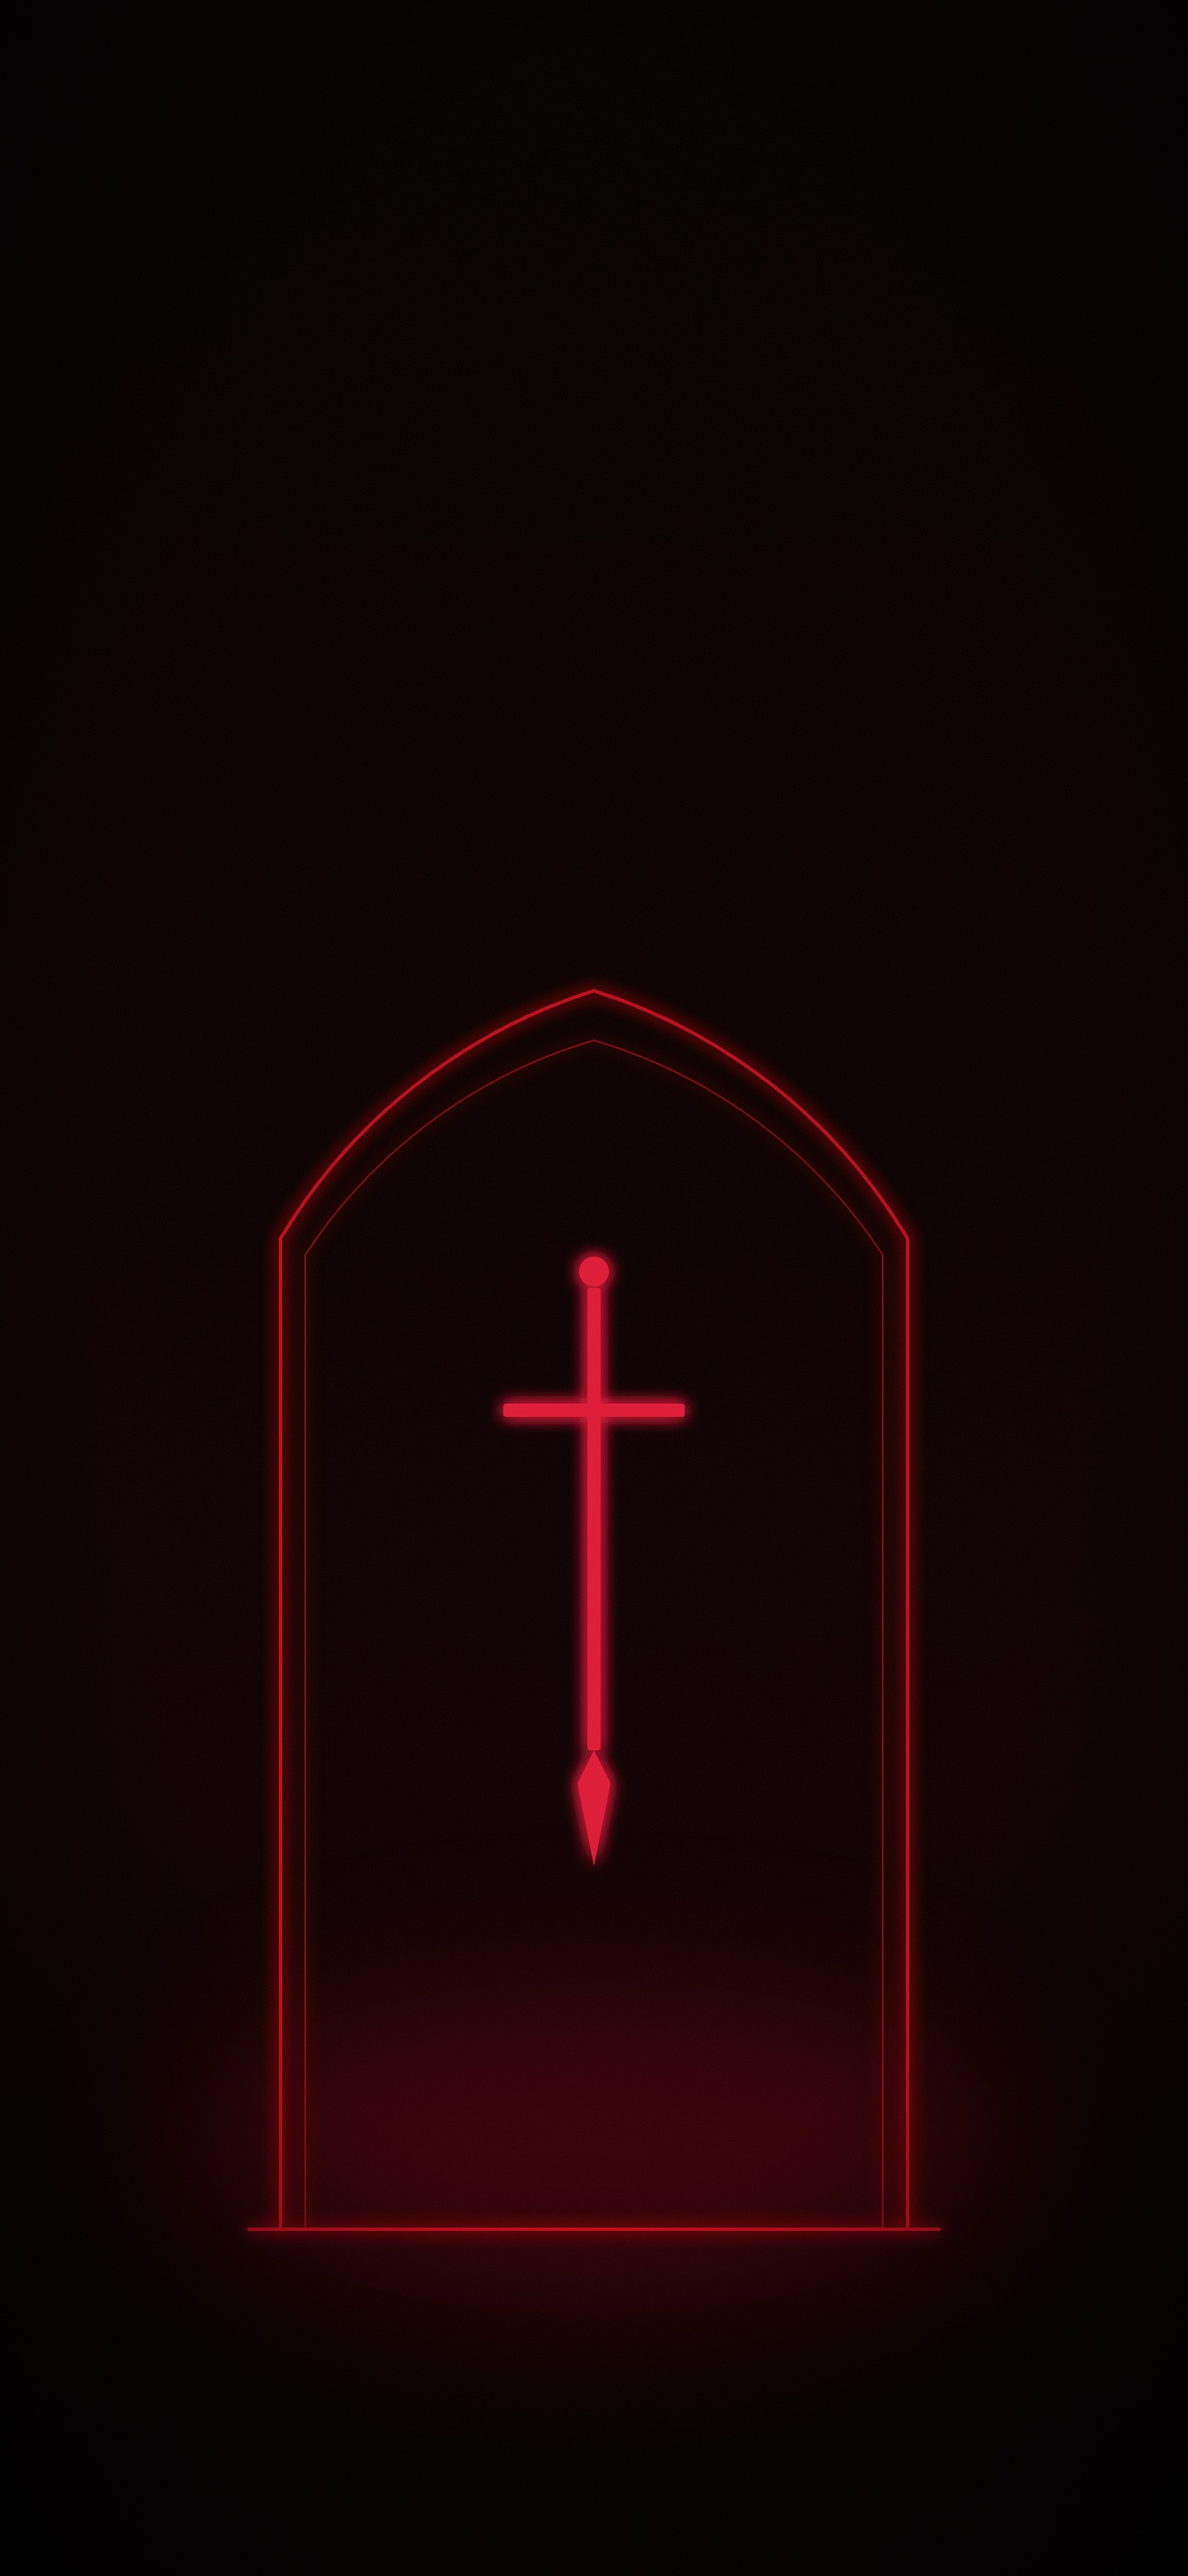
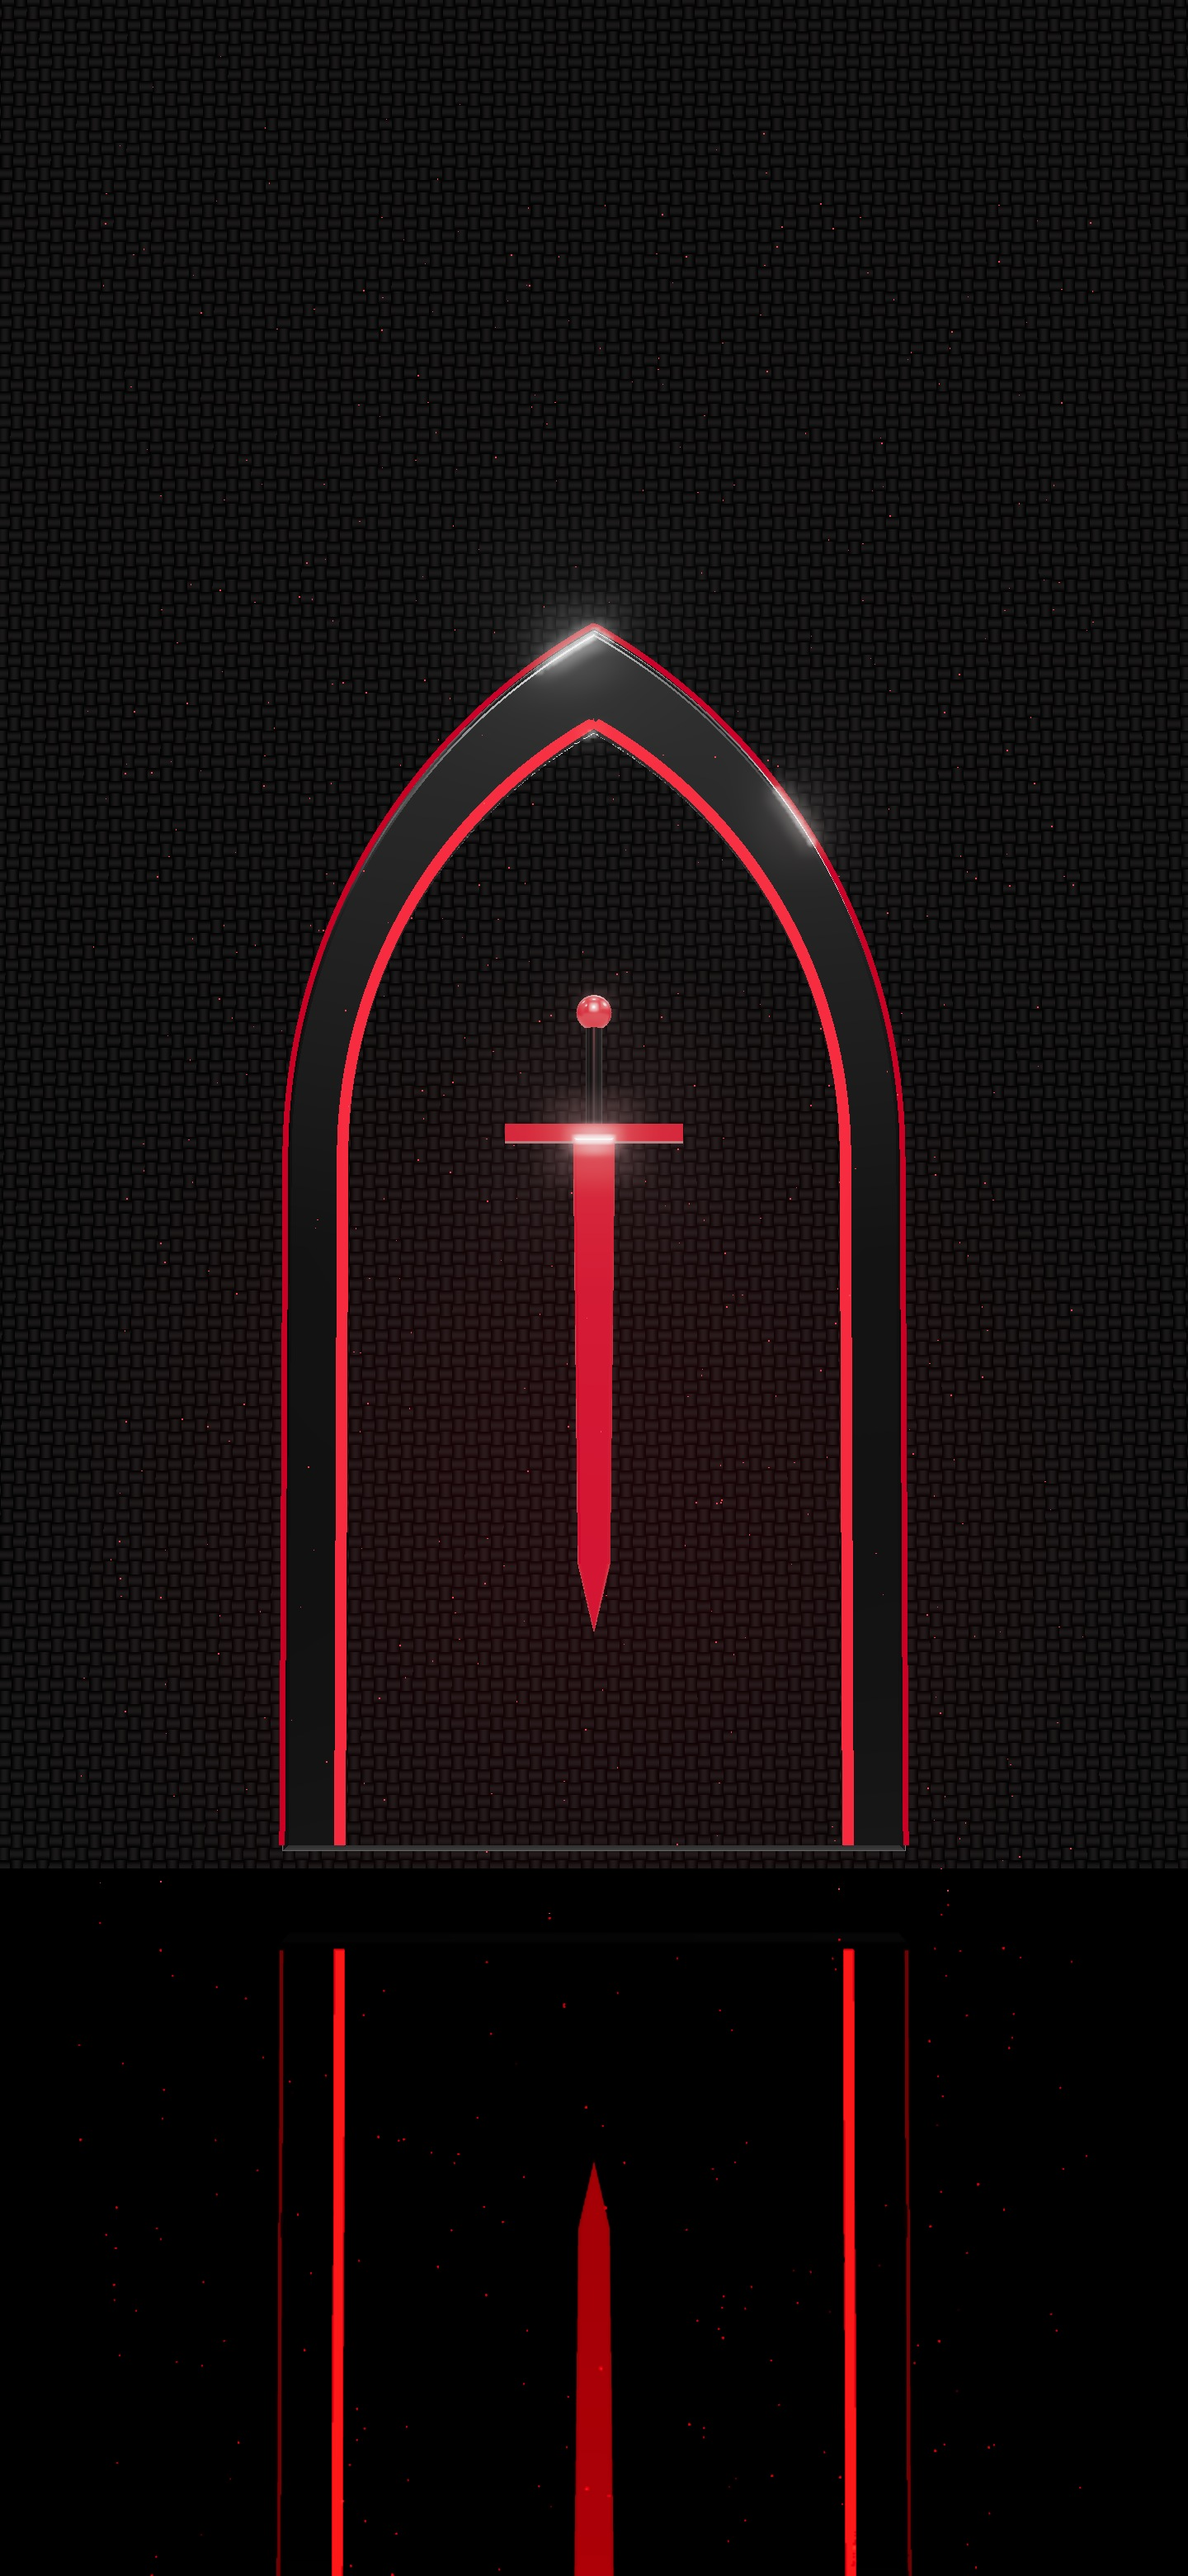
Gothic Crimson: re-render the Crimson Void wallpaper in 3D
A glossy black extruded gothic arch with crimson neon tubes tracing its
edges, a sword in emissive dark metal, a black mirror floor, drifting
embers and a carbon-fibre wall. render.js now writes each scene to its own
path and can render a single scene by name.

Claude-Session: https://claude.ai/code/session_012hMGB7J7nwum8GDAFji8hW

Changed region(s): [[0.1562, 0.2176, 0.8438, 1.0]]

diff --git a/theme/gothic-crimson/src/3d/void.html b/theme/gothic-crimson/src/3d/void.html
@@ -1,0 +1,135 @@
+<!doctype html>
+<html>
+<head>
+<meta charset="utf-8">
+<!-- Crimson Void wallpaper: a glossy black gothic arch outlined in crimson neon, a glowing sword inside,
+     standing on a black mirror floor in front of carbon fibre. 1440x3120. -->
+<script type="importmap">
+{ "imports": { "three": "./node_modules/three/build/three.module.js", "three/addons/": "./node_modules/three/examples/jsm/" } }
+</script>
+<style>html, body { margin: 0; background: #000; overflow: hidden; }</style>
+</head>
+<body>
+<script type="module">
+import * as THREE from 'three';
+import { Reflector } from 'three/addons/objects/Reflector.js';
+import { setup, gloss, glow, finish, CRIMSON } from './common.js';
+
+const width = 1440, height = 3120;
+const { renderer, scene } = setup({ width, height, exposure: 0.85 });
+
+const camera = new THREE.PerspectiveCamera(34, width / height, 0.1, 200);
+camera.position.set(0, 3.4, 52);
+camera.lookAt(0, 6.8, 0);
+
+// The pointed-arch opening, as a 2D path: straight sides up to the spring line, then two arcs.
+function lancetPath(w, spring) {
+  const r = w;
+  const apex = spring + Math.sqrt(r * r - (w / 2) ** 2);
+  const path = new THREE.Path();
+  path.moveTo(-w / 2, 0);
+  path.lineTo(-w / 2, spring);
+  path.absarc(w / 2, spring, r, Math.PI, Math.atan2(apex - spring, -w / 2), true);
+  path.absarc(-w / 2, spring, r, Math.atan2(apex - spring, w / 2), 0, true);
+  path.lineTo(w / 2, 0);
+  return path;
+}
+
+// Arch: a thick glossy frame around the opening.
+// Points are de-duplicated: where the arcs meet, the path repeats a point, which upsets triangulation.
+function points(path2d) {
+  return path2d.getPoints(120).filter((p, i, all) => i === 0 || p.distanceTo(all[i - 1]) > 1e-4);
+}
+const outer = new THREE.Shape(points(lancetPath(7.4, 8.4)));
+const hole = new THREE.Path(points(lancetPath(6.0, 8.4)));
+outer.holes.push(hole);
+const arch = new THREE.Mesh(
+  new THREE.ExtrudeGeometry(outer, { depth: 1.2, bevelEnabled: true, bevelSize: 0.08, bevelThickness: 0.08, bevelSegments: 5 }),
+  gloss(),
+);
+arch.position.z = -0.6;
+scene.add(arch);
+
+// Neon tracing the inside edge of the opening, and a fainter line round the outside.
+function neon(path2d, z, radius, strength) {
+  const pts = path2d.getPoints(200).map((p) => new THREE.Vector3(p.x, p.y, z));
+  const curve = new THREE.CatmullRomCurve3(pts);
+  scene.add(new THREE.Mesh(new THREE.TubeGeometry(curve, 800, radius, 12), glow(CRIMSON, strength)));
+}
+neon(lancetPath(6.15, 8.4), 0.72, 0.07, 1.5);
+neon(lancetPath(7.55, 8.4), 0.72, 0.035, 0.8);
+
+// The sword: crossguard, grip, pommel and a tapering blade, glowing from within.
+const sword = new THREE.Group();
+const blade = new THREE.Shape();
+blade.moveTo(-0.22, 0); blade.lineTo(0.22, 0); blade.lineTo(0.16, -5.2); blade.lineTo(0, -6.0); blade.lineTo(-0.16, -5.2); blade.closePath();
+const extrude = { depth: 0.12, bevelEnabled: true, bevelSize: 0.04, bevelThickness: 0.04, bevelSegments: 3 };
+// Glossy dark metal lit from within, so it keeps its shape instead of glowing flat.
+const swordGlow = new THREE.MeshPhysicalMaterial({
+  color: 0x1a0306, metalness: 0.6, roughness: 0.25, clearcoat: 1, envMapIntensity: 0.6,
+  emissive: CRIMSON, emissiveIntensity: 0.9,
+});
+sword.add(new THREE.Mesh(new THREE.ExtrudeGeometry(blade, extrude), swordGlow));
+const guard = new THREE.Mesh(new THREE.BoxGeometry(2.2, 0.22, 0.22), swordGlow);
+guard.position.y = 0.1;
+sword.add(guard);
+const grip = new THREE.Mesh(new THREE.CylinderGeometry(0.1, 0.1, 1.3, 16), gloss());
+grip.position.y = 0.85;
+sword.add(grip);
+const pommel = new THREE.Mesh(new THREE.SphereGeometry(0.22, 24, 16), swordGlow);
+pommel.position.y = 1.6;
+sword.add(pommel);
+sword.position.set(0, 8.6, 0.2);
+scene.add(sword);
+const swordLight = new THREE.PointLight(CRIMSON, 6, 12, 2);
+swordLight.position.set(0, 10.5, 4);
+scene.add(swordLight);
+
+// Black mirror floor.
+const floor = new Reflector(new THREE.PlaneGeometry(80, 80), { textureWidth: width / 2, textureHeight: height / 2, color: 0x2a2a2a });
+floor.rotation.x = -Math.PI / 2;
+floor.position.y = -0.62;
+scene.add(floor);
+
+// Carbon-fibre wall behind, with a crimson glow from the arch.
+const wall = new THREE.Mesh(
+  new THREE.PlaneGeometry(120, 120),
+  new THREE.ShaderMaterial({
+    uniforms: { glow: { value: new THREE.Color(0x2c040b) } },
+    vertexShader: 'varying vec2 vUv; void main() { vUv = uv; gl_Position = projectionMatrix * modelViewMatrix * vec4(position, 1.0); }',
+    fragmentShader: `
+      uniform vec3 glow; varying vec2 vUv;
+      void main() {
+        vec2 g = vUv * 700.0;
+        vec2 cell = floor(g);
+        vec2 f = fract(g);
+        float across = mod(cell.x + cell.y, 2.0) > 0.5 ? f.x : f.y;
+        float ridge = pow(sin(across * 3.14159), 1.5);
+        vec3 col = vec3(mix(0.006, 0.03, ridge)) * vec3(1.0, 0.93, 0.95);
+        col += glow * smoothstep(0.07, 0.0, distance(vUv, vec2(0.5, 0.535)));
+        gl_FragColor = vec4(col, 1.0);
+      }`,
+  }),
+);
+wall.position.set(0, 0, -4);
+scene.add(wall);
+
+// Embers drifting up through the arch.
+const count = 500;
+const pos = new Float32Array(count * 3);
+let seed = 5;
+const rand = () => ((seed = (seed * 16807) % 2147483647) / 2147483647);
+for (let i = 0; i < count; i++) {
+  pos[i * 3] = (rand() - 0.5) * 12;
+  pos[i * 3 + 1] = rand() * 22 - 1;
+  pos[i * 3 + 2] = (rand() - 0.5) * 6 + 1;
+}
+scene.add(new THREE.Points(
+  new THREE.BufferGeometry().setAttribute('position', new THREE.BufferAttribute(pos, 3)),
+  new THREE.PointsMaterial({ color: new THREE.Color(0xff3a4a).multiplyScalar(1.5), size: 0.05, transparent: true, opacity: 0.7 }),
+));
+
+finish({ renderer, scene, camera, width, height, bloom: { strength: 1.0, radius: 0.6, threshold: 0.85 } });
+</script>
+</body>
+</html>

diff --git a/theme/gothic-crimson/src/3d/render.js b/theme/gothic-crimson/src/3d/render.js
@@ -1,13 +1,15 @@
-// Renders the 3D scenes to ../../theme-park/*.jpg with headless Chromium (WebGL via SwiftShader).
-// Run from this folder: npm install && node render.js
+// Renders the 3D scenes to JPEGs in the gothic-crimson folder with headless Chromium (WebGL via SwiftShader).
+// Run from this folder: npm install && node render.js [part-of-file-name]
 const http = require('http');
 const fs = require('fs');
 const path = require('path');
 const { chromium } = require('playwright');
 
+// Output file (relative to the gothic-crimson folder) -> scene page and size.
 const SCENES = {
-  'quick-panel': { page: 'bands.html?scene=panel', width: 1440, height: 3120 },
-  keyboard: { page: 'bands.html?scene=keys', width: 1440, height: 1080 },
+  'theme-park/quick-panel.jpg': { page: 'bands.html?scene=panel', width: 1440, height: 3120 },
+  'theme-park/keyboard.jpg': { page: 'bands.html?scene=keys', width: 1440, height: 1080 },
+  'wallpapers/gothic-crimson-void.jpg': { page: 'void.html', width: 1440, height: 3120 },
 };
 const TYPES = { '.html': 'text/html', '.js': 'text/javascript' };
 
@@ -24,20 +26,21 @@ const server = http.createServer((req, res) => {
 
 server.listen(0, async () => {
   const base = `http://127.0.0.1:${server.address().port}`;
-  const outDir = path.join(__dirname, '..', '..', 'theme-park');
-  fs.mkdirSync(outDir, { recursive: true });
+  const root = path.join(__dirname, '..', '..');
   const browser = await chromium.launch({ args: ['--use-angle=swiftshader', '--enable-unsafe-swiftshader', '--ignore-gpu-blocklist'] });
   try {
+    const only = process.argv[2];
     for (const [name, { page, width, height }] of Object.entries(SCENES)) {
+      if (only && !name.includes(only)) continue;
       const tab = await browser.newPage({ viewport: { width, height } });
       tab.on('pageerror', (e) => console.error(`${page}: ${e.message}`));
       tab.on('console', (m) => m.type() === 'error' && console.error(`${page}: ${m.text()}`));
       await tab.goto(`${base}/${page}`);
       await tab.waitForFunction(() => window.__done === true, null, { timeout: 600000 });
       const canvas = await tab.$('canvas');
-      await canvas.screenshot({ path: path.join(outDir, `${name}.jpg`), type: 'jpeg', quality: 93 });
+      await canvas.screenshot({ path: path.join(root, name), type: 'jpeg', quality: 93 });
       await tab.close();
-      console.log(`wrote ${name}.jpg`);
+      console.log(`wrote ${name}`);
     }
   } finally {
     await browser.close();

diff --git a/theme/gothic-crimson/README.md b/theme/gothic-crimson/README.md
@@ -10,7 +10,7 @@ Near-black backgrounds, blood-red accents, cathedral spires and rose windows.
 | --- | --- |
 | `wallpapers/gothic-crimson-cathedral.jpg` | Home screen: blood moon over a cathedral skyline |
 | `wallpapers/gothic-crimson-rose-window.jpg` | Lock screen: glowing rose window, with space at the top for the clock |
-| `wallpapers/gothic-crimson-void.jpg` | Almost pure black with one glowing arch. Easy on the battery with the AMOLED screen |
+| `wallpapers/gothic-crimson-void.jpg` | 3D render: a glossy black gothic arch outlined in crimson neon, a glowing sword inside, on a black mirror floor |
 
 The wallpapers are 1440×3120, the S26 Ultra's full QHD+ resolution, so they show pixel for pixel. In **Settings → Display → Screen resolution**, pick **QHD+** to get the sharpest picture.
 

diff --git a/theme/gothic-crimson/theme-park/README.md b/theme/gothic-crimson/theme-park/README.md
@@ -85,8 +85,9 @@ theme.
 
 ## Change the images
 
-Both are real 3D renders (three.js), made to match a glossy black-and-red carbon wallpaper. The scene is
-`../src/3d/bands.html`, with shared materials and geometry in `../src/3d/common.js`. To re-render:
+Both, and the Crimson Void wallpaper, are real 3D renders (three.js), made to match a glossy black-and-red
+carbon wallpaper. The scenes are `../src/3d/bands.html` and `../src/3d/void.html`, with shared materials and
+geometry in `../src/3d/common.js`. To re-render:
 
 ```
 cd theme/gothic-crimson/src/3d
